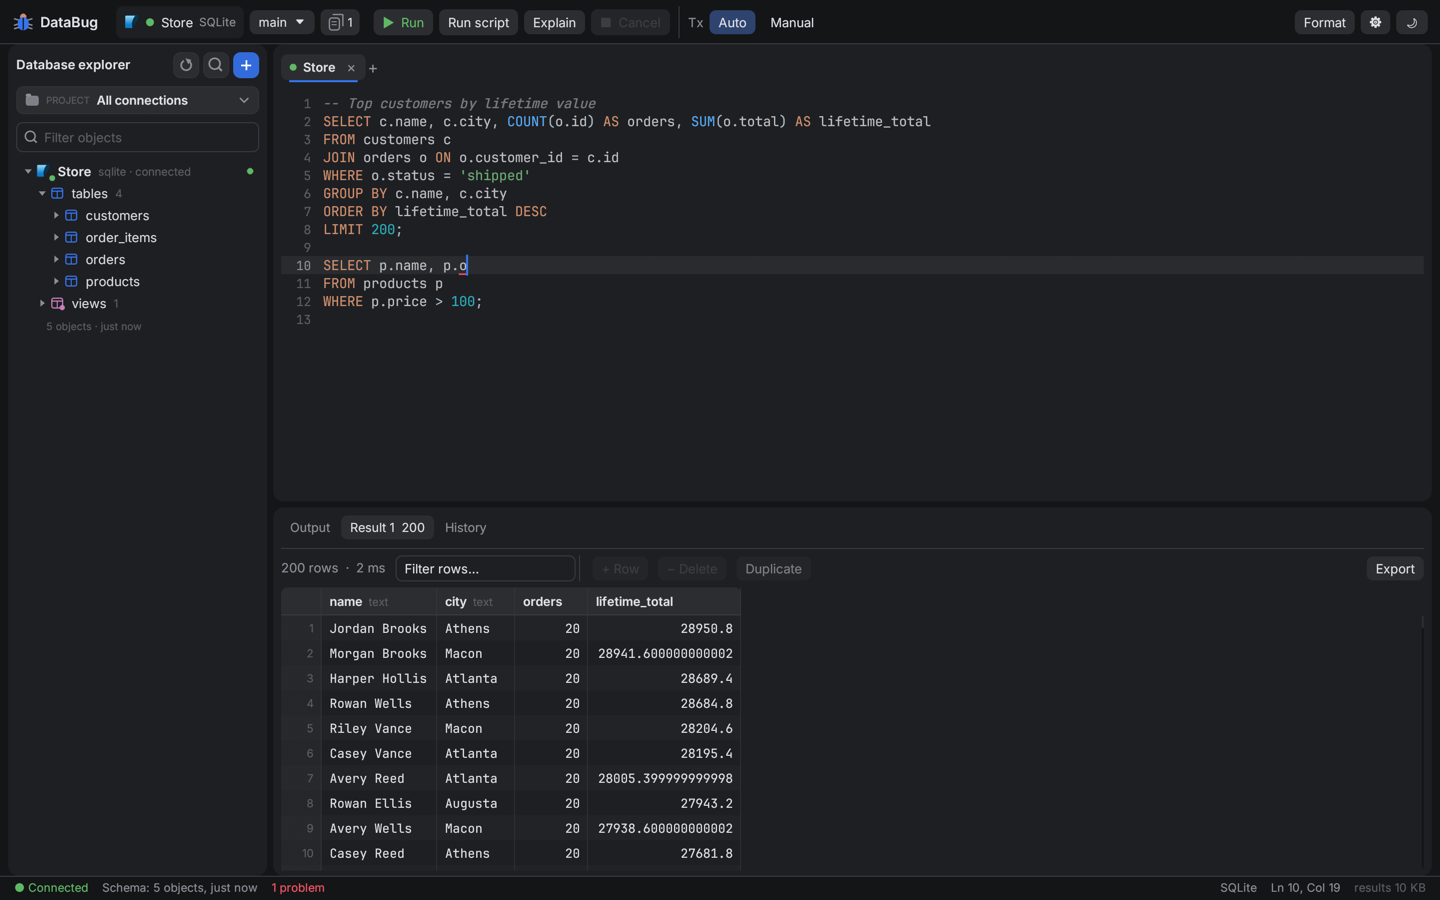
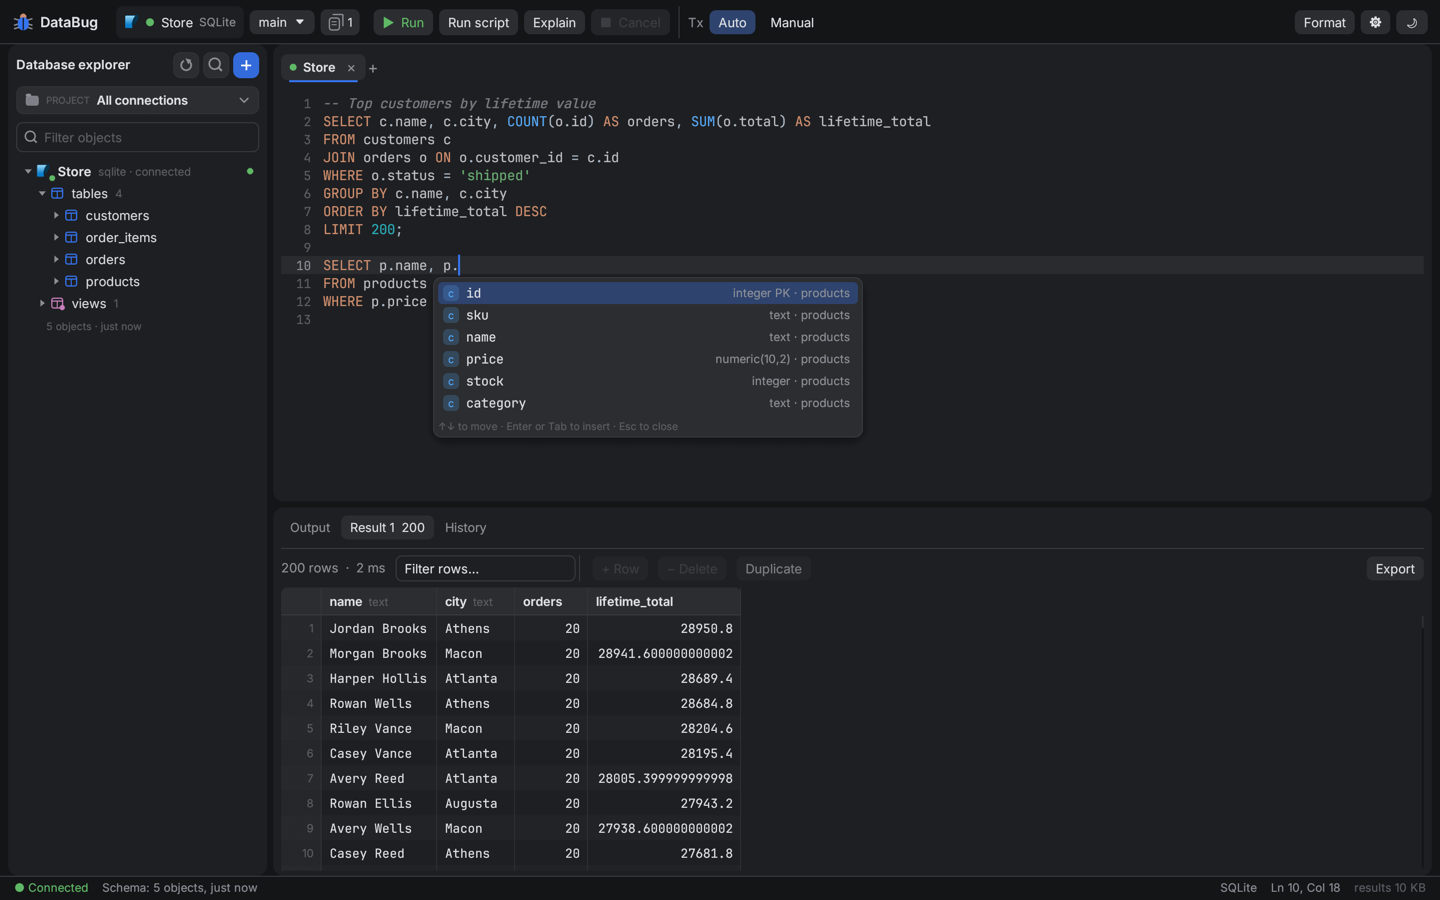
fix: keep editor selection on right-click; restyle dialog checkboxes
- Right-clicking a selection no longer collapses it, so Cut/Copy in the
  menu act on the highlighted text
- Connection dialog checkboxes use a themed checkbox with proper spacing;
  more room around the Port label
- Screenshot scenes open completion directly; README editor screenshot
  shows the completion list again

Changed region(s): [[0.2812, 0.28, 0.5938, 0.4978], [0.1875, 0.9644, 0.2188, 0.9956]]

diff --git a/crates/databug-app/src/dialogs.rs b/crates/databug-app/src/dialogs.rs
@@ -117,7 +117,9 @@ impl ConnDialog {
                                 field(ui, "Host");
                                 field_row(ui, |ui| {
                                     input(ui, p, egui::TextEdit::singleline(&mut self.cfg.host).hint_text("localhost"), 260.0);
+                                    ui.add_space(16.0);
                                     ui.label(RichText::new("Port").color(p.muted));
+                                    ui.add_space(8.0);
                                     port_input(ui, p, &mut self.cfg.port);
                                 });
                                 ui.end_row();
@@ -184,7 +186,8 @@ impl ConnDialog {
                                     field(ui, if influx && self.cfg.user.is_empty() { "API token" } else { "Password" });
                                     field_row(ui, |ui| {
                                         input(ui, p, egui::TextEdit::singleline(&mut self.password).password(true), 220.0);
-                                        ui.checkbox(&mut self.save_password, "Save in system keychain");
+                                        ui.add_space(8.0);
+                                        crate::theme::checkbox(ui, p, &mut self.save_password, "Save in system keychain");
                                     });
                                     ui.end_row();
                                 }
@@ -239,7 +242,7 @@ impl ConnDialog {
                                 }
                                 ui.selectable_value(&mut self.cfg.ssl, SslMode::Require, "Require");
                                 if kind == DbKind::MsSql {
-                                    ui.checkbox(&mut self.cfg.trust_server_cert, "Trust server certificate");
+                                    crate::theme::checkbox(ui, p, &mut self.cfg.trust_server_cert, "Trust server certificate");
                                 }
                             });
                             ui.end_row();
@@ -274,10 +277,11 @@ impl ConnDialog {
                     ui.end_row();
                     field(ui, "Safety");
                     ui.horizontal(|ui| {
-                        if ui.checkbox(&mut self.cfg.production, "Production").on_hover_text("Ask before running anything that changes data, and show a red marker").changed() && self.cfg.production {
+                        ui.spacing_mut().item_spacing.x = 16.0;
+                        if crate::theme::checkbox(ui, p, &mut self.cfg.production, "Production").on_hover_text("Ask before running anything that changes data, and show a red marker").changed() && self.cfg.production {
                             self.cfg.color = [247, 84, 100];
                         }
-                        ui.checkbox(&mut self.cfg.read_only, "Read-only").on_hover_text("Block statements that modify data or schema");
+                        crate::theme::checkbox(ui, p, &mut self.cfg.read_only, "Read-only").on_hover_text("Block statements that modify data or schema");
                     });
                     ui.end_row();
                 });
@@ -365,7 +369,7 @@ impl ConnDialog {
                         for s in &self.known_schemas {
                             let mut on = list.contains(s);
                             let text = if *s == self.default_schema { format!("{s} (default)") } else { s.clone() };
-                            if ui.checkbox(&mut on, text).changed() {
+                            if crate::theme::checkbox(ui, p, &mut on, text).changed() {
                                 if on {
                                     list.push(s.clone());
                                 } else {

diff --git a/crates/databug-app/src/editor.rs b/crates/databug-app/src/editor.rs
@@ -119,6 +119,9 @@ pub struct Editor {
     pending_paste: bool,
     /// Where the right-click menu was opened (byte offset), for *Go to definition*.
     menu_at: Option<usize>,
+    /// Open the completion list on the next frame, as Ctrl + Space does
+    /// (screenshot scenes).
+    pub complete_now: bool,
 }
 
 /// Right-click menu items the app carries out.
@@ -182,6 +185,7 @@ impl Editor {
             request: None,
             pending_paste: false,
             menu_at: None,
+            complete_now: false,
         }
     }
 
@@ -649,7 +653,7 @@ impl Editor {
 
         // ---- keys we handle before the text edit sees them ----
         let mut accept: Option<usize> = None;
-        let mut explicit_complete = false;
+        let mut explicit_complete = std::mem::take(&mut self.complete_now);
         let mut toggle_comment = false;
         let mut insert_spaces = false;
         if has_focus {
@@ -800,6 +804,10 @@ impl Editor {
                     }
                 }
             }
+            // egui places the cursor on any mouse press, right button included;
+            // keep the selection a right-click is about to act on
+            let right_press = ui.input(|i| i.pointer.secondary_pressed());
+            let kept_range = if right_press { egui::TextEdit::load_state(ui.ctx(), self.id).and_then(|s| s.cursor.char_range()) } else { None };
             // The layouter borrows `self`, so the buffer is moved out while editing.
             let mut text = std::mem::take(&mut self.text);
             let id = self.id;
@@ -831,9 +839,16 @@ impl Editor {
             }
             text_rect = out.response.rect;
 
-            if let Some(cr) = out.cursor_range {
-                let a = char_to_byte(&self.text, cr.primary.ccursor.index);
-                let b = char_to_byte(&self.text, cr.secondary.ccursor.index);
+            let mut cursor_range = out.cursor_range.map(|c| c.as_ccursor_range());
+            if let Some(kept) = kept_range.filter(|r| r.primary != r.secondary && out.response.hovered()) {
+                let mut state = egui::TextEdit::load_state(ui.ctx(), self.id).unwrap_or_default();
+                state.cursor.set_char_range(Some(kept));
+                state.store(ui.ctx(), self.id);
+                cursor_range = Some(kept);
+            }
+            if let Some(cr) = cursor_range {
+                let a = char_to_byte(&self.text, cr.primary.index);
+                let b = char_to_byte(&self.text, cr.secondary.index);
                 self.cursor = a;
                 self.selection = if a != b { Some(a.min(b)..a.max(b)) } else { None };
             }

diff --git a/crates/databug-app/src/theme.rs b/crates/databug-app/src/theme.rs
@@ -440,3 +440,33 @@ pub fn text_field(ui: &mut egui::Ui, p: &Palette, edit: egui::TextEdit<'_>, widt
     ui.painter().set(bg, egui::epaint::RectShape::new(rect, CornerRadius::same(6), p.island, stroke, egui::StrokeKind::Inside));
     r
 }
+
+/// A checkbox in the same style as the text fields: a 16 px rounded box
+/// (panel fill, thin border), filled with the accent color and a white tick
+/// when on, with room between the box and its label.
+pub fn checkbox(ui: &mut egui::Ui, p: &Palette, on: &mut bool, label: impl Into<egui::WidgetText>) -> egui::Response {
+    let galley = label.into().into_galley(ui, Some(egui::TextWrapMode::Extend), f32::INFINITY, egui::TextStyle::Body);
+    let size = egui::vec2(16.0 + 8.0 + galley.size().x, galley.size().y.max(20.0));
+    let (rect, mut resp) = ui.allocate_exact_size(size, egui::Sense::click());
+    if resp.clicked() {
+        *on = !*on;
+        resp.mark_changed();
+    }
+    let b = egui::Rect::from_center_size(egui::pos2(rect.left() + 8.0, rect.center().y), egui::vec2(16.0, 16.0));
+    let hovered = resp.hovered() && ui.is_enabled();
+    if *on {
+        ui.painter().rect_filled(b, CornerRadius::same(4), if hovered { p.accent.gamma_multiply(0.85) } else { p.accent });
+        let st = Stroke::new(1.8_f32, Color32::WHITE);
+        ui.painter().line_segment([b.center() + egui::vec2(-4.0, 0.3), b.center() + egui::vec2(-1.2, 3.0)], st);
+        ui.painter().line_segment([b.center() + egui::vec2(-1.2, 3.0), b.center() + egui::vec2(4.2, -3.2)], st);
+    } else {
+        let stroke = if hovered { Stroke::new(1.0_f32, p.muted) } else { Stroke::new(1.0_f32, p.border) };
+        ui.painter().rect(b, CornerRadius::same(4), p.island, stroke, egui::StrokeKind::Inside);
+    }
+    let color = if ui.is_enabled() { p.text } else { p.faint };
+    ui.painter().galley(egui::pos2(b.right() + 8.0, rect.center().y - galley.size().y / 2.0), galley, color);
+    if hovered {
+        ui.ctx().set_cursor_icon(egui::CursorIcon::PointingHand);
+    }
+    resp
+}

diff --git a/crates/databug-app/src/app.rs b/crates/databug-app/src/app.rs
@@ -4018,10 +4018,11 @@ impl DataBugApp {
                 plan.wait_frames = plan.wait_frames.min(5);
             }
             2 if plan.wait_frames == 4 && (plan.scene == "main" || plan.scene == "light") => {
-                // open completion the way Ctrl+Space would
-                ctx.input_mut(|i| {
-                    i.events.push(egui::Event::Key { key: Key::Space, physical_key: None, pressed: true, repeat: false, modifiers: Modifiers::CTRL });
-                });
+                // open completion the way Ctrl+Space would (directly, so a stray
+                // key press while the window is up can't change the shot)
+                if let Some(t) = self.tabs.get_mut(self.active) {
+                    t.editor.complete_now = true;
+                }
             }
             2 if plan.wait_frames > match plan.scene.as_str() { "flow" | "edit" | "csv-run" | "table-exec" | "rename-apply" | "edit-object" | "rows" | "rows-submit" | "retry" => 70, "pg-compare" | "compare" => 30, "perf" => 400, _ => 14 } && self.tabs.get(self.active).map(|t| t.running.is_none()).unwrap_or(true) => {
                 plan.step = 3;

diff --git a/CHANGELOG.md b/CHANGELOG.md
@@ -21,6 +21,8 @@ Add a line under **Unreleased** in the same pull request as the change, in the s
 
 ### Fixed
 
+- Right-clicking a selection in the editor no longer clears it, so *Cut* and *Copy* in the menu act on what you selected
+- The connection dialog's checkboxes (*Save in system keychain*, *Trust server certificate*, *Production*, *Read-only*, schema list) match the rest of the dialog and sit apart from the fields next to them
 - Dragging a selection in the editor past its top or bottom edge now keeps scrolling, so the cursor follows the pointer instead of stopping at the edge
 - Schema compare's difference count ("6 differences") no longer splits across two lines when the toolbar is narrow
 - README screenshots updated for the new connection dialog, logos, explorer refresh button, consoles button and text fields, with new ones for the engine list, the consoles list and go to definition
